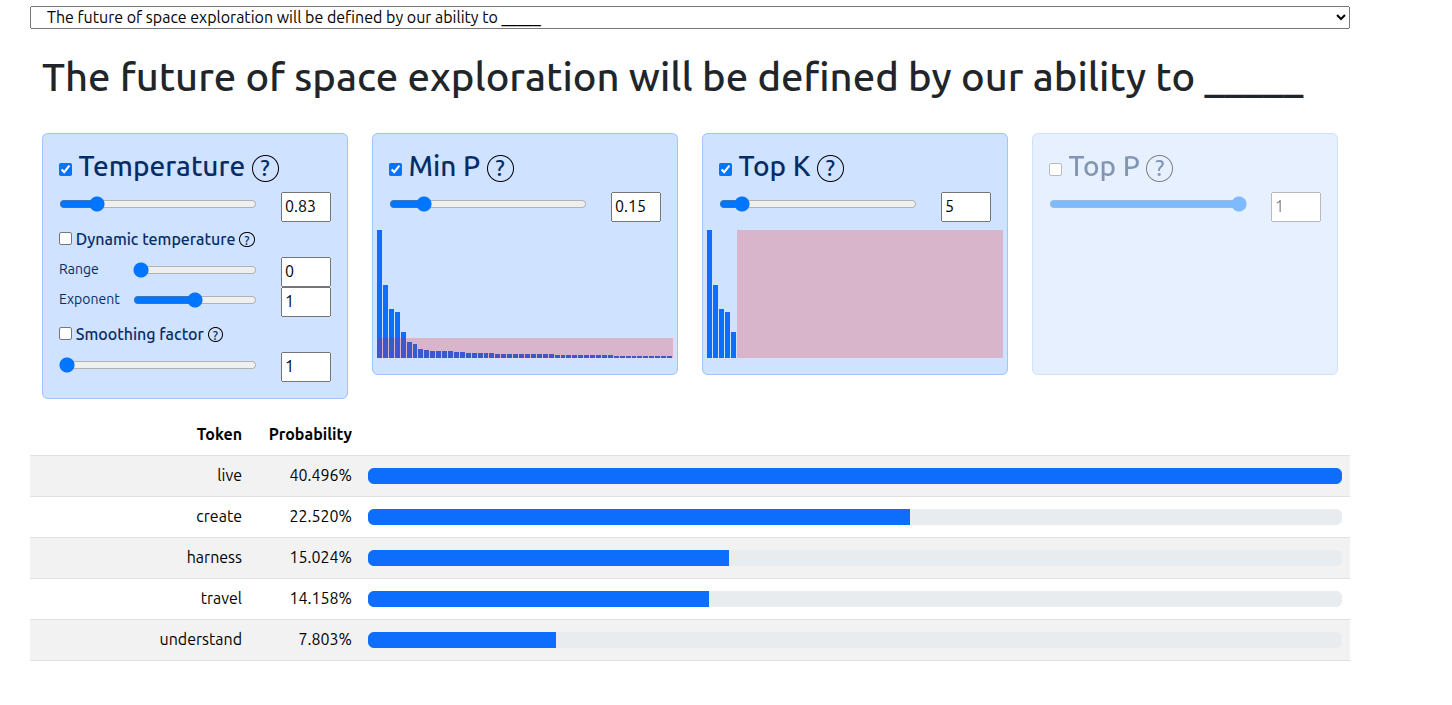
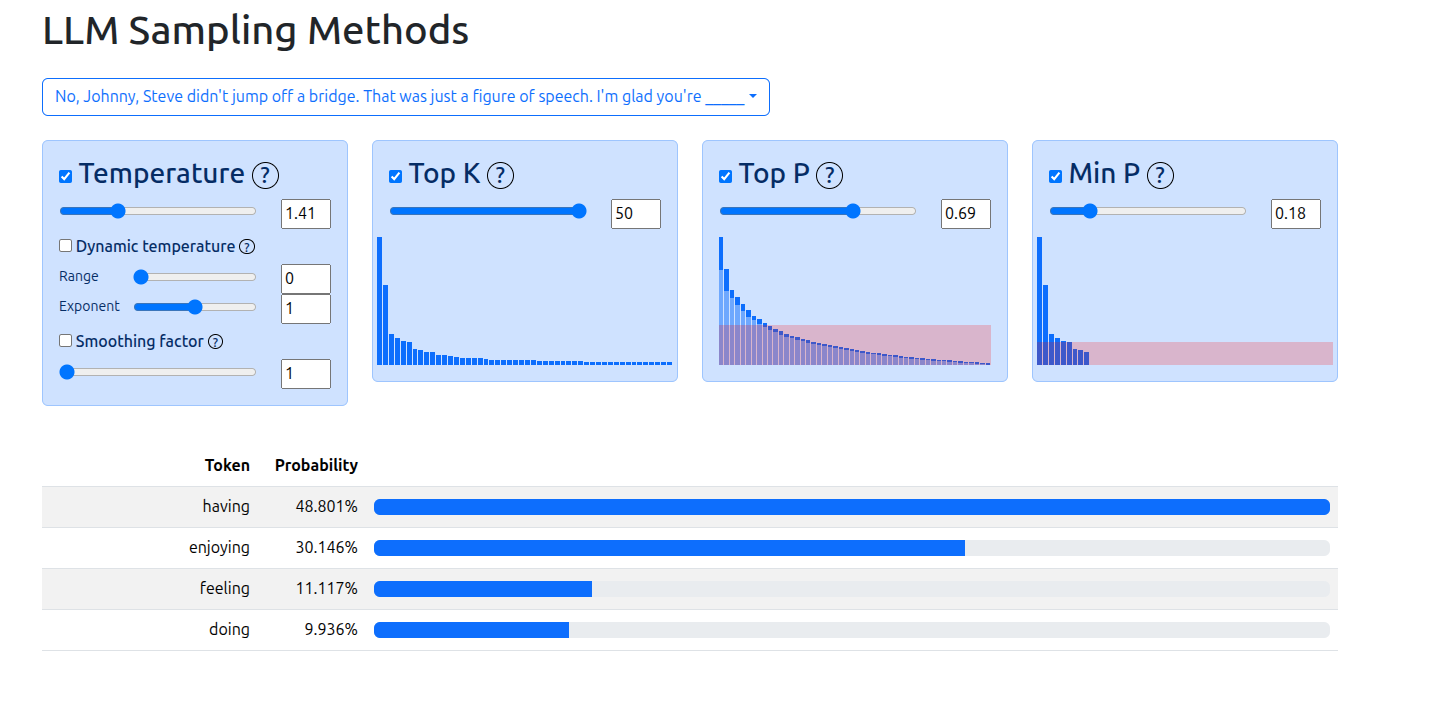
update html

diff --git a/web/index.js b/web/index.js
@@ -2,6 +2,8 @@
 
 let prompts;
 let max_tokens, vbar_width;
+let currentPage = 1;
+const itemsPerPage = 6;
 
 const samplers = {
 	temperature: (tokens, probs) => {
@@ -137,15 +139,11 @@ const normalize = (tokens, probs) => {
 };
 
 const update_prompt = () => {
-	let s = $("select#prompts");
-	let prompt = s.children()[s.val()].textContent;
-	s.closest('div.row').find('label')[0].textContent = prompt;
 	update_sample();
 };
 
 const update_sample = () => {
-	let i = $("select#prompts").val();
-	let tbody = $("div#retained tbody").empty()[0];
+	let i = window.currentPromptIndex !== undefined ? window.currentPromptIndex : 0;
 	let sum = 0.0;
 	let probs = JSON.parse(JSON.stringify(prompts[i][1]));
 	$("div#samplers div.alert:has(h3 > input:checked)").each((idx, el) => {
@@ -154,8 +152,20 @@ const update_sample = () => {
 	});
 	let tokens = Object.keys(probs);
 	probs = normalize(tokens, probs);
+
+	// Calculate pagination
+	const totalItems = tokens.length;
+	const totalPages = Math.ceil(totalItems / itemsPerPage);
+	currentPage = Math.min(currentPage, totalPages || 1);
+
+	const startIdx = (currentPage - 1) * itemsPerPage;
+	const endIdx = Math.min(startIdx + itemsPerPage, totalItems);
+	const pageTokens = tokens.slice(startIdx, endIdx);
+
+	// Populate table rows
+	let tbody = $("div#retained tbody").empty()[0];
 	let pcf = new Intl.NumberFormat(undefined, { style: "percent", maximumFractionDigits: 3, minimumFractionDigits: 3 });
-	for (let t of tokens) {
+	for (let t of pageTokens) {
 		let tr = document.createElement('tr');
 		let td = document.createElement('td');
 		tbody.appendChild(tr);
@@ -176,19 +186,92 @@ const update_sample = () => {
 		pbar.classList.add('bg-primary');
 		pbar.setAttribute('style', 'width: ' + (100.0 * probs[t] / probs[tokens[0]]).toFixed(2) + '%;')
 	}
+
+	// Update pagination
+	updatePagination(totalPages);
+};
+
+const updatePagination = (totalPages) => {
+	let paginationEl = $("#pagination").empty();
+
+	if (totalPages <= 1) {
+		return;
+	}
+
+	// Previous button
+	let prevLi = document.createElement('li');
+	prevLi.className = 'page-item' + (currentPage === 1 ? ' disabled' : '');
+	let prevA = document.createElement('a');
+	prevA.className = 'page-link';
+	prevA.href = '#';
+	prevA.textContent = 'Previous';
+	prevA.addEventListener('click', (e) => {
+		e.preventDefault();
+		if (currentPage > 1) {
+			currentPage--;
+			update_sample();
+		}
+	});
+	prevLi.appendChild(prevA);
+	paginationEl.append(prevLi);
+
+	// Page numbers
+	for (let i = 1; i <= totalPages; i++) {
+		let li = document.createElement('li');
+		li.className = 'page-item' + (i === currentPage ? ' active' : '');
+		let a = document.createElement('a');
+		a.className = 'page-link';
+		a.href = '#';
+		a.textContent = i;
+		a.addEventListener('click', (e) => {
+			e.preventDefault();
+			currentPage = i;
+			update_sample();
+		});
+		li.appendChild(a);
+		paginationEl.append(li);
+	}
+
+	// Next button
+	let nextLi = document.createElement('li');
+	nextLi.className = 'page-item' + (currentPage === totalPages ? ' disabled' : '');
+	let nextA = document.createElement('a');
+	nextA.className = 'page-link';
+	nextA.href = '#';
+	nextA.textContent = 'Next';
+	nextA.addEventListener('click', (e) => {
+		e.preventDefault();
+		if (currentPage < totalPages) {
+			currentPage++;
+			update_sample();
+		}
+	});
+	nextLi.appendChild(nextA);
+	paginationEl.append(nextLi);
 };
 
 $(() => {
 	$.get("probs.json", data => {
 		prompts = data;
-		let select = $("select#prompts"), option;
+		window.currentPromptIndex = 0;
+		let promptsMenu = $("#promptsMenu"), option;
 		for (let i in prompts) {
-			option = document.createElement('option');
-			option.setAttribute('value', i);
-			option.textContent = prompts[i][0] + ' _____';
-			select.append(option);
+			let li = document.createElement('li');
+			let a = document.createElement('a');
+			a.className = 'dropdown-item';
+			a.href = '#';
+			a.textContent = prompts[i][0] + ' _____';
+			a.addEventListener('click', (e) => {
+				e.preventDefault();
+				window.currentPromptIndex = i;
+				$("#promptDropdownBtn").text(prompts[i][0] + ' _____');
+				update_prompt();
+			});
+			li.appendChild(a);
+			promptsMenu.append(li);
 		}
-		select.val(0).change().trigger('input');
+		$("#promptDropdownBtn").text(prompts[0][0] + ' _____');
+		update_sample();
 	});
 
 	let types = ["range", "text"];
@@ -203,8 +286,6 @@ $(() => {
 	vbar_width = 'width: calc(' + (100.0 / max_tokens).toFixed(2) + '% - 1px);';
 
 	$("[data-bs-toggle='tooltip']").each((i, e) => new bootstrap.Tooltip(e));
-	$("select#prompts").on('change', update_prompt);
-	$("select#prompts").on('input', update_prompt);
 	$("div#samplers input").on('input', update_sample);
 	$("div#samplers").sortable({ update: update_sample });
 });

diff --git a/web/index.html b/web/index.html
@@ -4,7 +4,7 @@
     <meta charset="UTF-8" />
     <meta name="robots" content="noindex" />
     <meta name="viewport" content="width=device-width, initial-scale=1" />
-    <title>llm-sampling</title>
+    <title>LLM Sampling Methods</title>
     <link
       href="https://cdn.jsdelivr.net/npm/bootstrap@5.3.3/dist/css/bootstrap.min.css"
       rel="stylesheet"
@@ -77,8 +77,27 @@
   </head>
   <body class="container mt-4">
     <div class="row">
-      <select id="prompts"></select>
-      <h1 class="mt-4"><label for="prompts"></label></h1>
+      <h1 class="mb-4">LLM Sampling Methods</h1>
+    </div>
+    <div class="row mb-4">
+      <div class="col-auto">
+        <div class="btn-group" role="group">
+          <button
+            id="promptDropdownBtn"
+            type="button"
+            class="btn btn-outline-primary dropdown-toggle"
+            data-bs-toggle="dropdown"
+            aria-expanded="false"
+          >
+            Select Prompt
+          </button>
+          <ul
+            id="promptsMenu"
+            class="dropdown-menu"
+            aria-labelledby="promptDropdownBtn"
+          ></ul>
+        </div>
+      </div>
     </div>
     <div class="row mt-4" id="samplers">
       <div class="col-lg-3 col-sm-6">
@@ -294,17 +313,39 @@
         </div>
       </div>
     </div>
-    <div class="row" id="retained">
-      <table class="table table-striped text-end">
-        <thead>
-          <tr>
-            <th class="col-2">Token</th>
-            <th class="col-1">Probability</th>
-            <th class="col-9"></th>
-          </tr>
-        </thead>
-        <tbody></tbody>
-      </table>
+    <div class="row mt-4" id="retained">
+      <div class="col-12">
+        <table class="table table-striped text-end">
+          <thead>
+            <tr>
+              <th class="col-2">Token</th>
+              <th class="col-1">Probability</th>
+              <th class="col-9"></th>
+            </tr>
+          </thead>
+          <tbody></tbody>
+        </table>
+        <nav aria-label="Pagination">
+          <ul class="pagination justify-content-center" id="pagination"></ul>
+        </nav>
+      </div>
+    </div>
+    <div class="row mt-5 pt-5 border-top text-muted text-center">
+      <div class="col-12">
+        <small>
+          <p>
+            Made originally by Romain D
+            <a href="https://github.com/Artefact2" target="_blank"
+              >(Artefact2)</a
+            >
+            , forked by Shmulik Cohen (<a
+              href="https://github.com/anuk909"
+              target="_blank"
+              >shmulc</a
+            >)
+          </p>
+        </small>
+      </div>
     </div>
   </body>
 </html>
